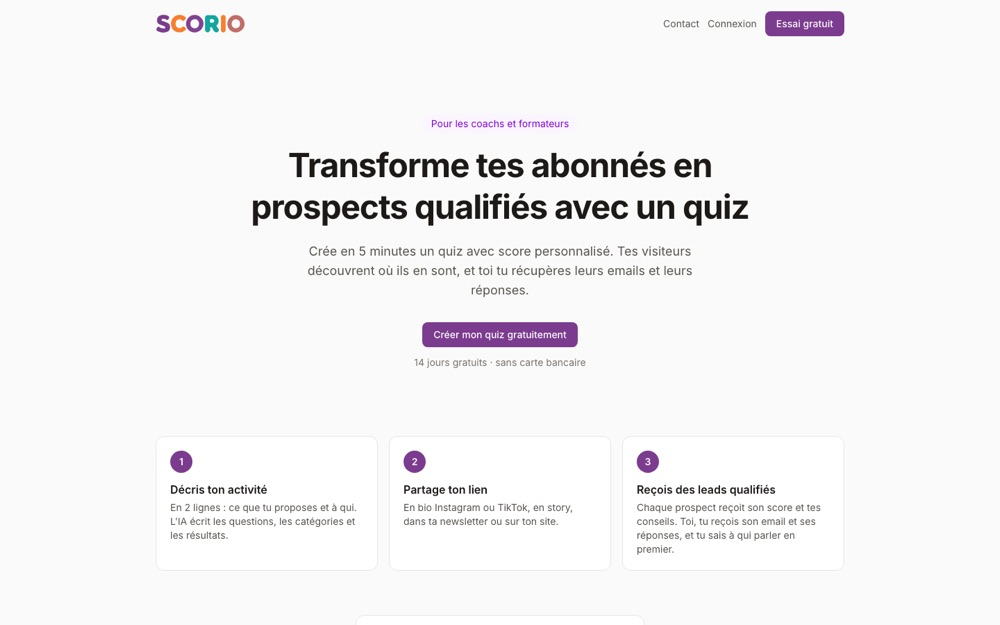
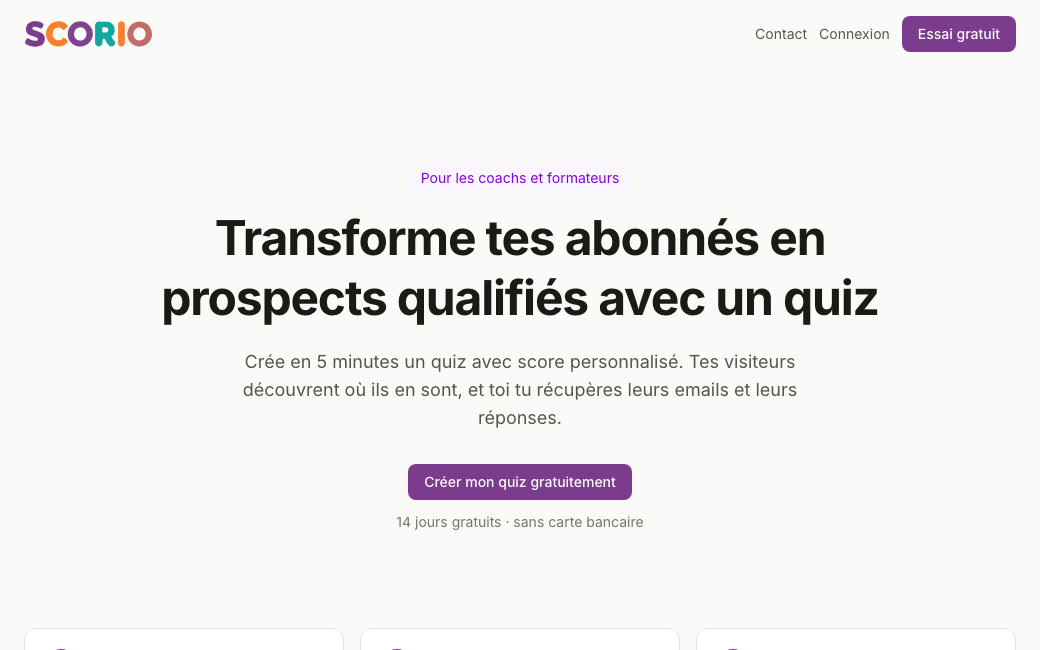
Capture de Scorio recentrée sur le titre

diff --git a/index.html b/index.html
@@ -87,7 +87,7 @@
   .feature{display:grid;grid-template-columns:1fr 1.15fr;overflow:hidden}
   .feature .txt{padding:24px;display:flex;flex-direction:column}
   .feature .shot{border-left:1px solid var(--line);background:var(--card-h);overflow:hidden}
-  .feature .shot img{width:100%;height:100%;object-fit:cover;object-position:top left}
+  .feature .shot img{width:100%;height:100%;object-fit:cover;object-position:center}
   .feature h3{font-size:22px;letter-spacing:-.02em;margin-top:14px}
   .feature p{color:var(--muted);margin-top:8px}
   .feature .more{margin-top:auto;padding-top:18px;font-size:14px;font-weight:500;display:inline-flex;gap:6px;align-items:center}
@@ -107,7 +107,7 @@
   .proj .tags{padding:10px 16px 0;display:flex;flex-wrap:wrap;gap:6px}
   .tag{font-size:11.5px;color:var(--muted);border:1px solid var(--line);border-radius:6px;padding:1px 7px}
   .proj .thumb{margin:16px 16px 0;border:1px solid var(--line);border-bottom:0;border-radius:9px 9px 0 0;overflow:hidden;aspect-ratio:16/9;background:var(--card-h)}
-  .proj .thumb img{width:100%;height:100%;object-fit:cover;object-position:top left;transition:transform .4s}
+  .proj .thumb img{width:100%;height:100%;object-fit:cover;object-position:top center;transition:transform .4s}
   a.proj:hover .thumb img{transform:scale(1.03)}
   .proj .host{padding:10px 16px 0;font-size:12px;color:var(--dim)}
 
